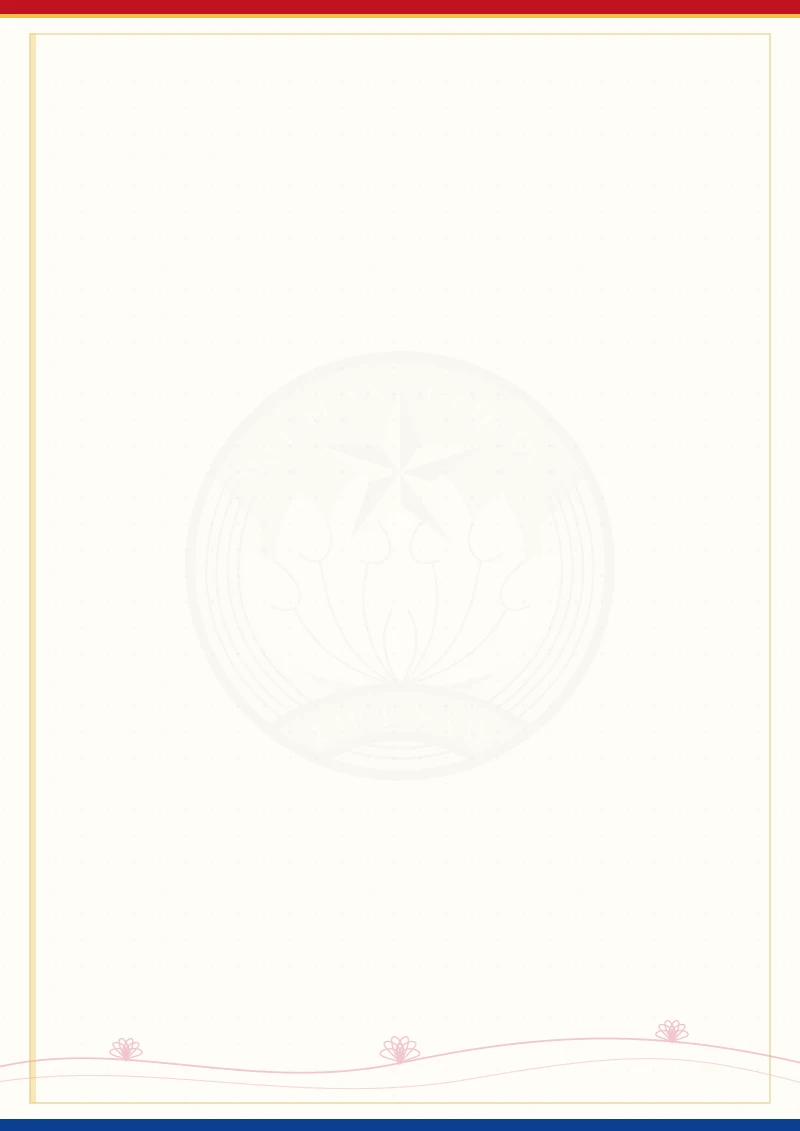
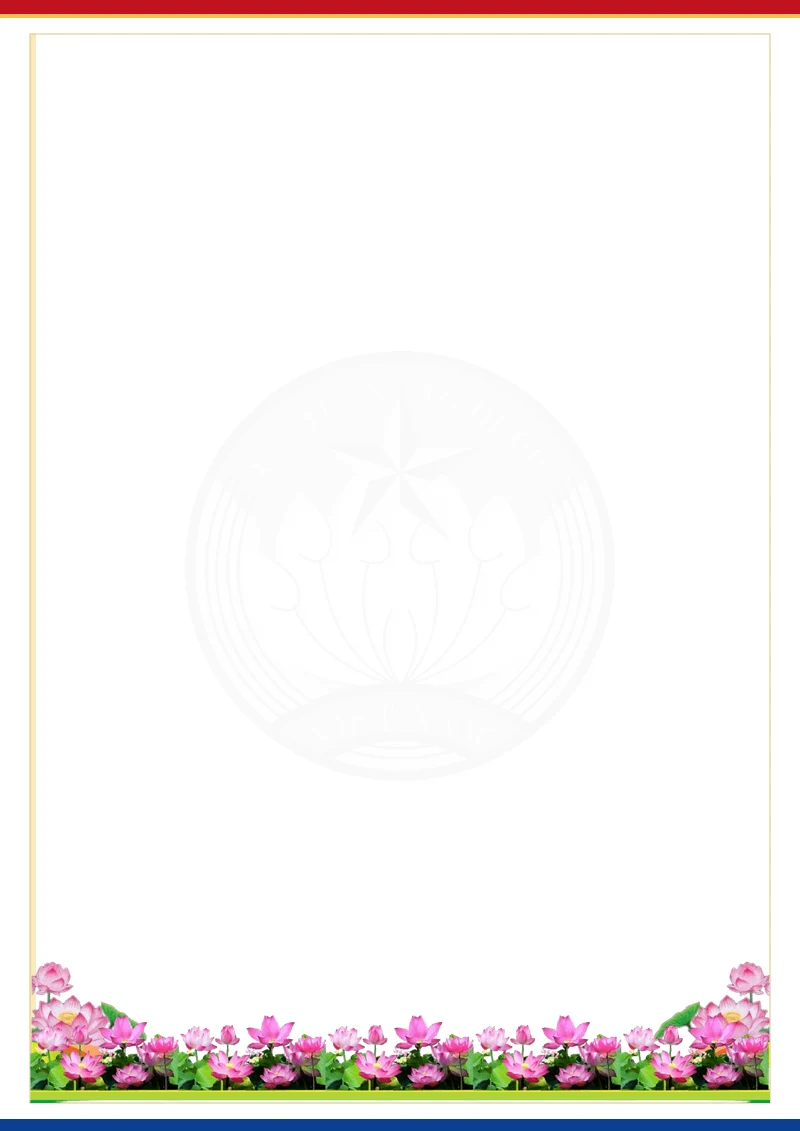
Chan trang dai hoa sen, nen trang ruot mau trang, can deu le hai ben
- Chan moi trang ruot gan anh dai hoa sen (assets/chan-trang-hoa-sen.png), rong
  dung bang khoang giua hai duong ke doc, day cham duong ke ngang duoi cung.
- Bo day sen ve bang SVG (cac net do/hong o chan trang).
- Chu chan trang nam phia tren dai hoa: them ChromeBand.offset de lui rieng
  chan trang, va ha BOTTOM cua vung noi dung tuong ung.
- Nen trang ruot doi tu mau nga co cham chim sang trang tron cho chu ro hon.
- chrome.margin = M (60) nen dau trang / chan trang / gach ke thang hang voi
  than bai: da do trong trinh duyet, moi khoi deu le trai 60 phai 60.

Changed region(s): [[0.0312, 0.8355, 0.9688, 0.9903]]

diff --git a/components/book/PageChromeView.tsx b/components/book/PageChromeView.tsx
@@ -46,8 +46,11 @@ function Band({
     textOverflow: "ellipsis" as const,
   });
 
-  const textTop = isHeader ? m : H - m - band.fontSize * 1.2;
-  const ruleTop = isHeader ? m + band.fontSize * 1.2 + gap : H - m - band.fontSize * 1.2 - gap;
+  const lui = band.offset ?? 0;
+  const textTop = isHeader ? m + lui : H - m - lui - band.fontSize * 1.2;
+  const ruleTop = isHeader
+    ? m + lui + band.fontSize * 1.2 + gap
+    : H - m - lui - band.fontSize * 1.2 - gap;
 
   return (
     <>

diff --git a/lib/book-types.ts b/lib/book-types.ts
@@ -73,6 +73,8 @@ export type ChromeBand = {
   ruleWidth: number;
   pageNumber?: boolean;
   pageNumberAlign?: "left" | "center" | "right";
+  /** lùi thêm vào trong so với lề, để chừa chỗ cho hoạ tiết ở mép trang */
+  offset?: number;
 };
 
 export type PageChrome = {
